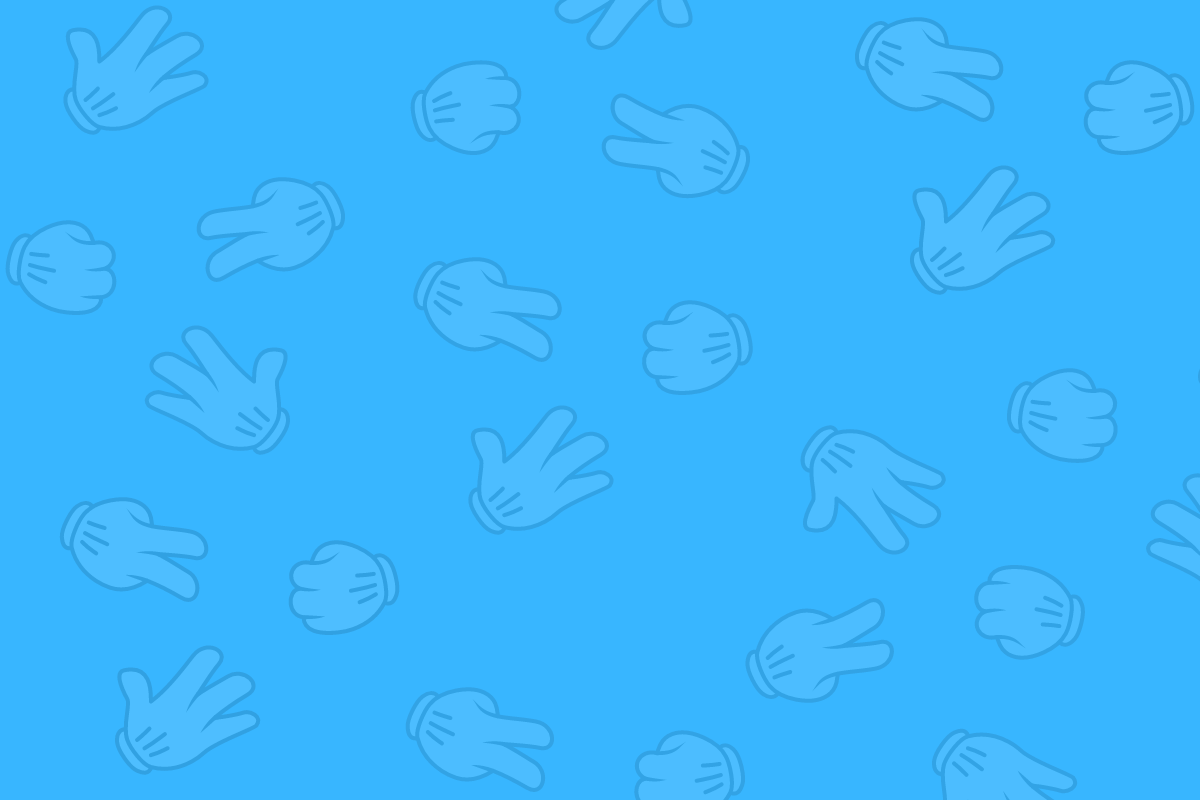
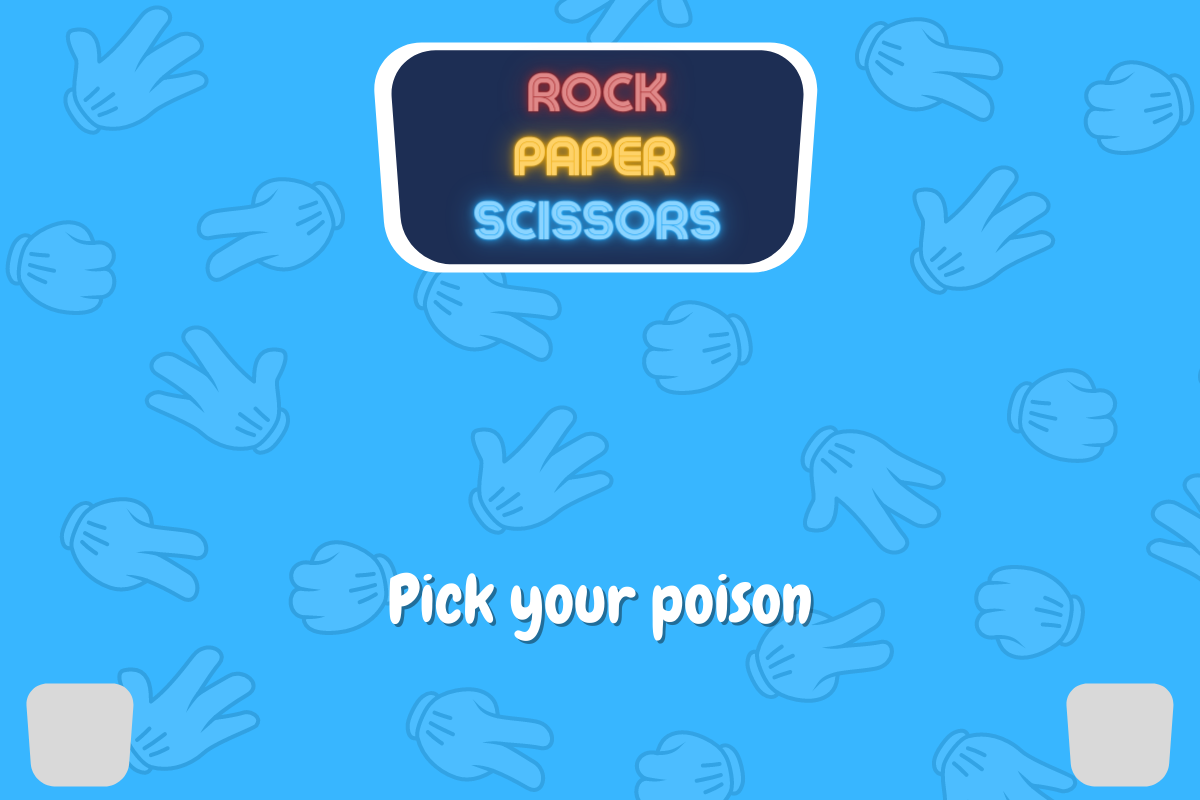
Weekend work
graphics, background, user class, game loop, mouse tracking, game selection panel.

diff --git a/game.py b/game.py
@@ -11,41 +11,129 @@ bgColor=(40,80,120)
 clock=pygame.time.Clock()
 fps=30
 screen=pygame.display.set_mode(Win_Size)
+
+
 Ava1=pygame.image.load('asseets/Paper.png')
 Ava2=pygame.image.load('asseets/unknown.png')
+
 avaRect=pygame.Rect(Win_Width//4-125,Win_Height//2-125,50,50)
 avaRect2=pygame.Rect(Win_Width//4*3-90, Win_Height//2-125,50,50)
+
+
 bg=pygame.image.load('asseets/bg.png')
 
 
-# Rock=pygame.transform(pygame.image.load('asseets/Rock.png'),50)
-# RockRect=pygame.Rect()
+
+
+
+# GAME LOGIC
 #
-# Paper=pygame.image.load('asseets/Paper.png')
-# PaperRect=pygame.Rect()
+# RUN GAME AND WAIT FOR USER INPUT
+# USER INPUT > RUN METHOD >
+# COLLECT USER INPUT
+# RANDOM COMPUTER INPUT
+# ASSIGN SCORE TO WINNER
+# RESET USER IMAGES TO QUESTION MARK
+# FINISH METHOD > BACK TO GAME TO WAIT FOR USER INPUT
+
+
+
+
+
+
+
+
+
+
+
+
+RockUser=pygame.image.load('asseets/Rock.png')
+PaperUser=pygame.image.load('asseets/Paper.png')
+ScissorsUser=pygame.image.load('asseets/Scissors.png')
+Rock=pygame.transform.scale(pygame.image.load('asseets/Rock.png'),[100,100])
+RockRect=pygame.Rect(Win_Width//2-160, Win_Height-150,100,100)
 #
-# Scissors=pygame.image.load('asseets/Scissors.png')
-# ScissorsRect=pygame.Rect()
+Paper=pygame.transform.scale(pygame.image.load('asseets/Paper.png'),[100,100])
+PaperRect=pygame.Rect(Win_Width//2-50, Win_Height-150,100,100)
+#
+Scissors=pygame.transform.scale(pygame.image.load('asseets/Scissors.png'),[100,100])
+ScissorsRect=pygame.Rect(Win_Width//2+60, Win_Height-150,100,100)
+
+class Buttons:
+    def __init__(self,x,y,image):
+        self.x=x
+        self.y=y
+        self.width=100
+        self.height=100
+        self.image=image
+
+    def draw(self):
+        drawRect=pygame.Rect(self.x, self.y, self.width, self.height)
+        screen.blit(self.image, drawRect)
+
+    def Hover(self, pos):
+        if pos[0]>self.x and pos[0]<self.x+self.width:
+            if pos[1]>self.y and pos[1]<self.y+self.height:
+                return True
+        return False
 
 
 
-def drawCanvas():
-    pass
+
+class Player:
+    def __init__(self, x, y):
+        self.x=x
+        self.y=y
+        self.width=210
+        self.height=210
+
+
+    def draw(self, image):
+        playerRect=pygame.Rect(self.x, self.y, self.width, self.height)
+        screen.blit(image, playerRect)
+
+
+PLAYER1=Player(Win_Width//4-125,Win_Height//2-125)
+PLAYER2=Player(Win_Width//4*3-90, Win_Height//2-125)
+RockButton=Buttons(Win_Width//2-160, Win_Height-150, Rock)
+PaperButton=Buttons(Win_Width//2-50, Win_Height-150, Paper)
+ScissorsButton=Buttons(Win_Width//2+60, Win_Height-150, Scissors)
+
+def DrawBaseElements():
+    RockButton.draw()
+    PaperButton.draw()
+    ScissorsButton.draw()
+
 
 
 
 def main():
+    userIn=Ava2
+
     while True:
         clock.tick(fps)
         pygame.display.update()
         screen.blit(bg,(0,0))
-        pygame.draw.line(screen, (0,0,0), [600,0],[600,800], width=3)
-        screen.blit(Ava1, avaRect)
-        screen.blit(Ava2, avaRect2)
+        DrawBaseElements()
+        PLAYER1.draw(userIn)
+        PLAYER2.draw(Ava2)
         for event in pygame.event.get():
+            pos=pygame.mouse.get_pos()
             if event.type==pygame.QUIT:
                 pygame.quit()
                 sys.exit()
+            if event.type==pygame.MOUSEBUTTONDOWN:
+                if RockButton.Hover(pos):
+                    userIn=RockUser
+                    PLAYER1.draw(userIn)
+                if PaperButton.Hover(pos):
+                    userIn=PaperUser
+                    PLAYER1.draw(userIn)
+                if ScissorsButton.Hover(pos):
+                    userIn=ScissorsUser
+                    PLAYER1.draw(userIn)
+
+
 
 
 
